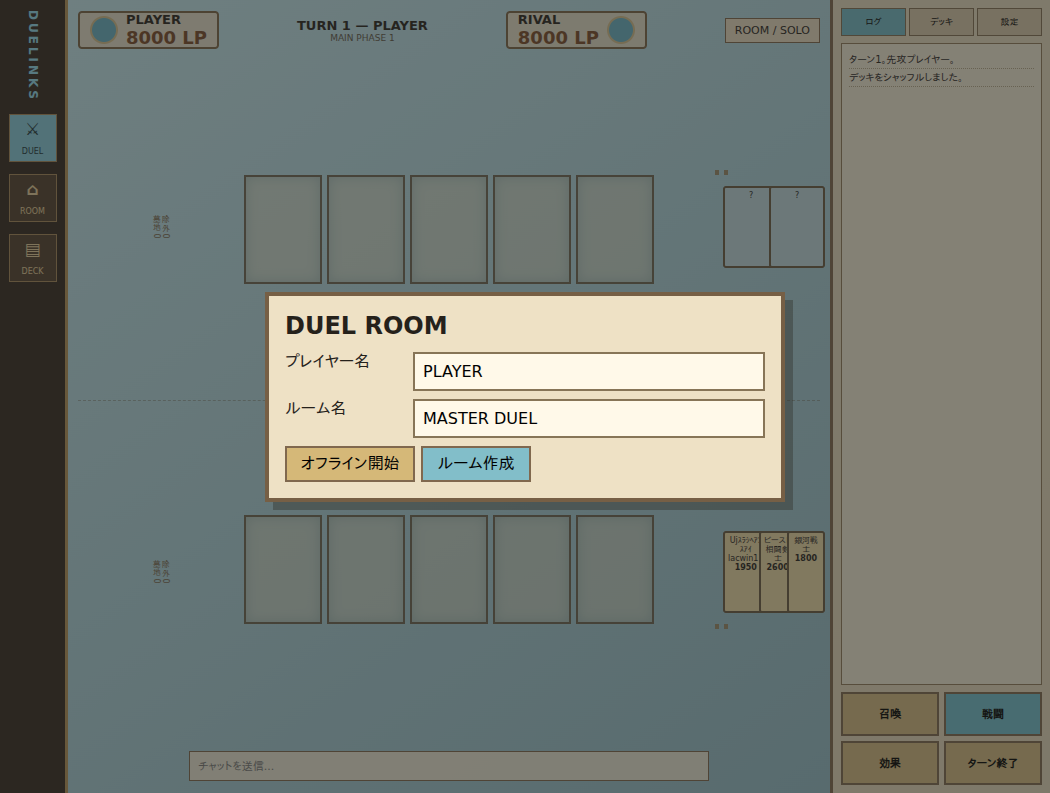
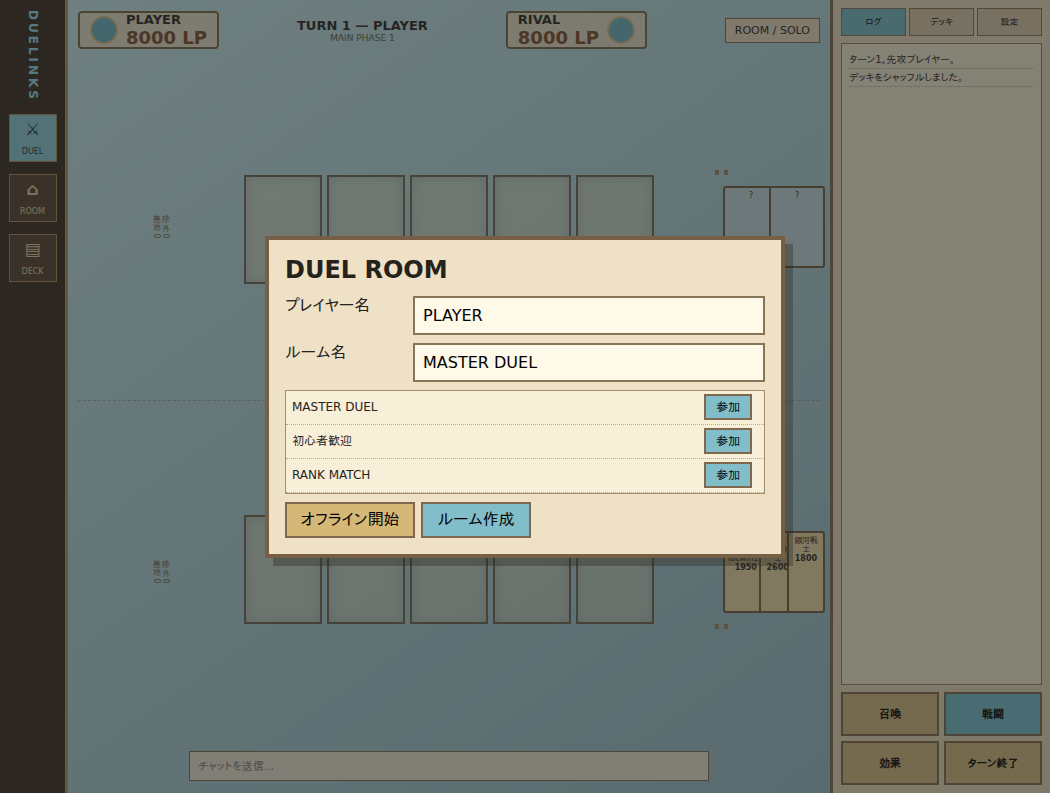
Publish static build for issue #5
Run: 45114635196
Attempt: 1
Generation: 4
Source: da7230533db3c421cd098f3e153b1ab0bc8300ee

Changed region(s): [[0.2438, 0.2724, 0.7619, 0.7264]]

diff --git a/index.html b/index.html
@@ -10,7 +10,7 @@ button,input{font:inherit}.app{height:100%;background:linear-gradient(145deg,#c9
 .board{min-width:0;height:100%;display:grid;grid-template-rows:48px 1fr 42px;padding:6px 10px}.topbar{display:flex;align-items:center;justify-content:space-between}.identity{height:38px;background:rgba(238,226,202,.88);border:2px solid #7d6548;border-radius:4px;display:flex;align-items:center;gap:8px;padding:4px 10px}.avatar{width:28px;height:28px;border-radius:50%;background:#68b3c7;border:2px solid #d8c28e}.name{font-weight:900;font-size:13px}.lp{font-size:18px;font-weight:900;color:#7b4a28}.turnbox{text-align:center}.turnbox strong{display:block;font-size:13px}.phase{font-size:9px;color:#5e5548}.room{font-size:11px;border:1px solid #80684e;padding:5px 9px;background:#eee1c5}
 .duel{position:relative;display:grid;grid-template-rows:1fr 1fr;min-height:0}.side{position:relative;display:grid;grid-template-columns:92px 1fr 92px;align-items:center}.zones{display:grid;grid-template-columns:repeat(5,minmax(44px,78px));gap:5px;justify-content:center}.extraRow{display:flex;justify-content:flex-end;gap:5px}.zone{aspect-ratio:.72;border:2px solid rgba(87,73,52,.8);background:rgba(232,218,184,.42);box-shadow:inset 0 0 12px rgba(75,122,137,.3);position:relative;display:flex;align-items:center;justify-content:center}.zone.trap{border-color:#9b8c6b}.zone .mini{width:88%;height:88%;font-size:9px;text-align:center;padding:3px;display:flex;flex-direction:column;justify-content:center;background:linear-gradient(135deg,#efdfaa,#d4a95c);border:2px solid #fff7cf}.zone .mini.blue{background:linear-gradient(135deg,#98d5e5,#4e96a9);color:#102b31}.zone .mini.dark{background:linear-gradient(135deg,#9d8069,#513b2e);color:#fff0c7}.zone .atk{font-size:11px;font-weight:900}.hand{display:flex;gap:-8px;justify-content:center}.handcard{width:58px;height:82px;margin:0 -5px;border:2px solid #6b5a43;background:#efdda9;padding:3px;font-size:8px;text-align:center;border-radius:3px;cursor:pointer;transition:.15s}.handcard:hover{transform:translateY(-8px)}.handcard.selected{outline:3px solid #5bc1d9}.opp .handcard{background:#c0dce2}.grave{writing-mode:vertical-rl;font-size:8px;color:#78674f;text-align:right}.battleline{position:absolute;left:0;right:0;top:50%;border-top:1px dashed rgba(93,76,52,.35)}
 .sidebar{background:rgba(239,224,193,.94);border-left:3px solid #80684e;padding:8px;display:flex;flex-direction:column;gap:7px}.tabs{display:grid;grid-template-columns:repeat(3,1fr);gap:3px}.tabs button{border:1px solid #867255;background:#dbcbac;font-size:9px;height:28px}.tabs button.on{background:#74bcca}.log{flex:1;background:#f7efda;border:1px solid #927c5b;padding:7px;font-size:10px;overflow:auto}.log p{margin:3px 0;border-bottom:1px dotted #b9aa8b;padding-bottom:3px}.commands{display:grid;grid-template-columns:1fr 1fr;gap:5px}.commands button{height:44px;border:2px solid #806b50;background:#d8bd82;font-weight:900;font-size:11px;cursor:pointer}.commands button.primary{background:#72c1d0}.footer{display:flex;align-items:center;justify-content:center}.chatline{width:min(600px,70%);height:30px;border:1px solid #80684e;background:rgba(247,239,218,.9);padding:5px 8px;font-size:11px}
-.modal{position:absolute;inset:0;background:rgba(38,38,35,.55);z-index:10;display:flex;align-items:center;justify-content:center}.modal.off{display:none}.dialog{width:min(520px,88%);background:#eee1c5;border:4px solid #765f45;padding:16px;box-shadow:8px 8px 0 rgba(40,36,29,.35)}.dialog h2{margin:0 0 12px}.row{display:grid;grid-template-columns:120px 1fr;gap:8px;margin:8px 0}.dialog input{border:2px solid #877557;background:#fff9e9;padding:8px}.dialog button{border:2px solid #80684e;background:#82bec9;height:36px;padding:0 14px;margin-right:6px}.dialog .start{background:#d5b878}.toast{position:absolute;z-index:20;left:50%;top:18%;transform:translateX(-50%);background:#29261f;color:#fff4ca;padding:8px 14px;border:2px solid #d6b872;opacity:0;transition:.2s}.toast.show{opacity:1}
+.modal{position:absolute;inset:0;background:rgba(38,38,35,.55);z-index:10;display:flex;align-items:center;justify-content:center}.modal.off{display:none}.dialog{width:min(520px,88%);background:#eee1c5;border:4px solid #765f45;padding:16px;box-shadow:8px 8px 0 rgba(40,36,29,.35)}.dialog h2{margin:0 0 12px}.row{display:grid;grid-template-columns:120px 1fr;gap:8px;margin:8px 0}.dialog input{border:2px solid #877557;background:#fff9e9;padding:8px}.dialog button{border:2px solid #80684e;background:#82bec9;height:36px;padding:0 14px;margin-right:6px}.dialog .start{background:#d5b878}.roomlist{max-height:110px;overflow:auto;border:1px solid #a58d69;background:#f8efd9;margin:8px 0}.roomitem{height:34px;display:flex;align-items:center;justify-content:space-between;border-bottom:1px dotted #baa98b;padding:3px 6px;font-size:12px}.roomitem button{height:26px;padding:0 10px}.toast{position:absolute;z-index:20;left:50%;top:18%;transform:translateX(-50%);background:#29261f;color:#fff4ca;padding:8px 14px;border:2px solid #d6b872;opacity:0;transition:.2s}.toast.show{opacity:1}
 @media(max-width:760px){.app{grid-template-columns:48px 1fr}.sidebar{position:absolute;right:0;top:48px;bottom:42px;width:170px;z-index:5}.side{grid-template-columns:44px 1fr 44px}.zones{grid-template-columns:repeat(5,minmax(38px,54px));gap:3px}.board{padding:3px}.identity:nth-child(3){display:none}.handcard{width:46px;height:66px}.room{display:none}.zone{min-height:52px}}
 </style></head>
 <body><div class="app">
@@ -20,7 +20,7 @@ button,input{font:inherit}.app{height:100%;background:linear-gradient(145deg,#c9
 <div class="side own"><div class="grave">除外 0<br>墓地 0</div><div><div class="zones" id="ownZones"><div class="zone" data-i="0"></div><div class="zone" data-i="1"></div><div class="zone" data-i="2"></div><div class="zone" data-i="3"></div><div class="zone" data-i="4"></div></div><div class="extraRow"><div class="zone trap"></div><div class="zone trap"></div></div></div><div class="hand" id="hand"><div class="handcard" data-card="lac">Ujｽﾗｼﾍｱﾝｽｱｲlacwin11<br><b>1950</b></div><div class="handcard" data-card="beast">ビースト相闘剣士<br><b>2600</b></div><div class="handcard">銀河戦士<br><b>1800</b></div></div></div></section>
 <footer class="footer"><input class="chatline" id="chat" placeholder="チャットを送信..."></footer></main>
 <aside class="sidebar"><div class="tabs"><button class="on">ログ</button><button>デッキ</button><button>設定</button></div><div class="log" id="log"><p>ターン1。先攻プレイヤー。</p><p>デッキをシャッフルしました。</p></div><div class="commands"><button id="summonBtn">召喚</button><button id="attackBtn" class="primary">戦闘</button><button id="effectBtn">効果</button><button id="endBtn">ターン終了</button></div></aside>
-<div class="modal" id="modal"><div class="dialog"><h2>DUEL ROOM</h2><div class="row"><label>プレイヤー名</label><input id="nameIn" value="PLAYER"></div><div class="row"><label>ルーム名</label><input id="roomIn" value="MASTER DUEL"></div><button class="start" id="offlineBtn">オフライン開始</button><button id="onlineBtn">ルーム作成</button></div></div><div class="toast" id="toast"></div>
+<div class="modal" id="modal"><div class="dialog"><h2>DUEL ROOM</h2><div class="row"><label>プレイヤー名</label><input id="nameIn" value="PLAYER"></div><div class="row"><label>ルーム名</label><input id="roomIn" value="MASTER DUEL"></div><div class="roomlist" id="roomList"><div class="roomitem"><span>MASTER DUEL</span><button data-room="MASTER DUEL">参加</button></div><div class="roomitem"><span>初心者歓迎</span><button data-room="初心者歓迎">参加</button></div><div class="roomitem"><span>RANK MATCH</span><button data-room="RANK MATCH">参加</button></div></div><button class="start" id="offlineBtn">オフライン開始</button><button id="onlineBtn">ルーム作成</button></div></div><div class="toast" id="toast"></div>
 </div>
 <script>
 let turn=1,phase='MAIN PHASE 1',lp=[8000,8000],selected=null,bonus=1950,enemyTurn=false;
@@ -30,6 +30,7 @@ function toast(t){let x=$('#toast');x.textContent=t;x.classList.add('show');setT
 function render(){ $('#pLp').textContent=lp[0]+' LP';$('#eLp').textContent=lp[1]+' LP';$('#turnText').textContent='TURN '+turn+' — '+(enemyTurn?'RIVAL':'PLAYER');$('#phaseText').textContent=phase }
 $('#lobbyBtn').onclick=()=>$('#modal').classList.remove('off');
 $('#offlineBtn').onclick=()=>start(false);$('#onlineBtn').onclick=()=>start(true);
+$('#roomList').onclick=e=>{let b=e.target.closest('[data-room]');if(!b)return;$('#roomIn').value=b.dataset.room;start(true)};
 function start(online){ $('#pName').textContent=$('#nameIn').value||'PLAYER';$('#roomName').textContent='ROOM / '+$('#roomIn').value||'SOLO';$('#modal').classList.add('off');addLog(online?'オンラインルームを作成しました。':'オフラインデュエルを開始。');toast('DUEL START') }
 $('#chat').onkeydown=e=>{if(e.key==='Enter'&&e.target.value.trim()){addLog($('#pName').textContent+': '+e.target.value);e.target.value=''}};
 function summonCard(card){if(enemyTurn)return;let empty=[...document.querySelectorAll('#ownZones .zone')].find(z=>!z.firstChild);if(!empty)return toast('モンスターゾーンが満杯');empty.innerHTML=`<div class="mini ${card==='lac'?'blue':'dark'}"><span>${card==='lac'?'Ujｽﾗｼﾍｱﾝｽｱｲlacwin11':'ビースト相闘剣士'}</span><b class="atk">ATK ${card==='lac'?bonus:2600}</b></div>`;if(card==='lac')selected=empty;addLog((card==='lac'?'Ujｽﾗｼﾍｱﾝｽｱｲlacwin11':'ビースト相闘剣士')+'を召喚しました。');toast('召喚成功')}
